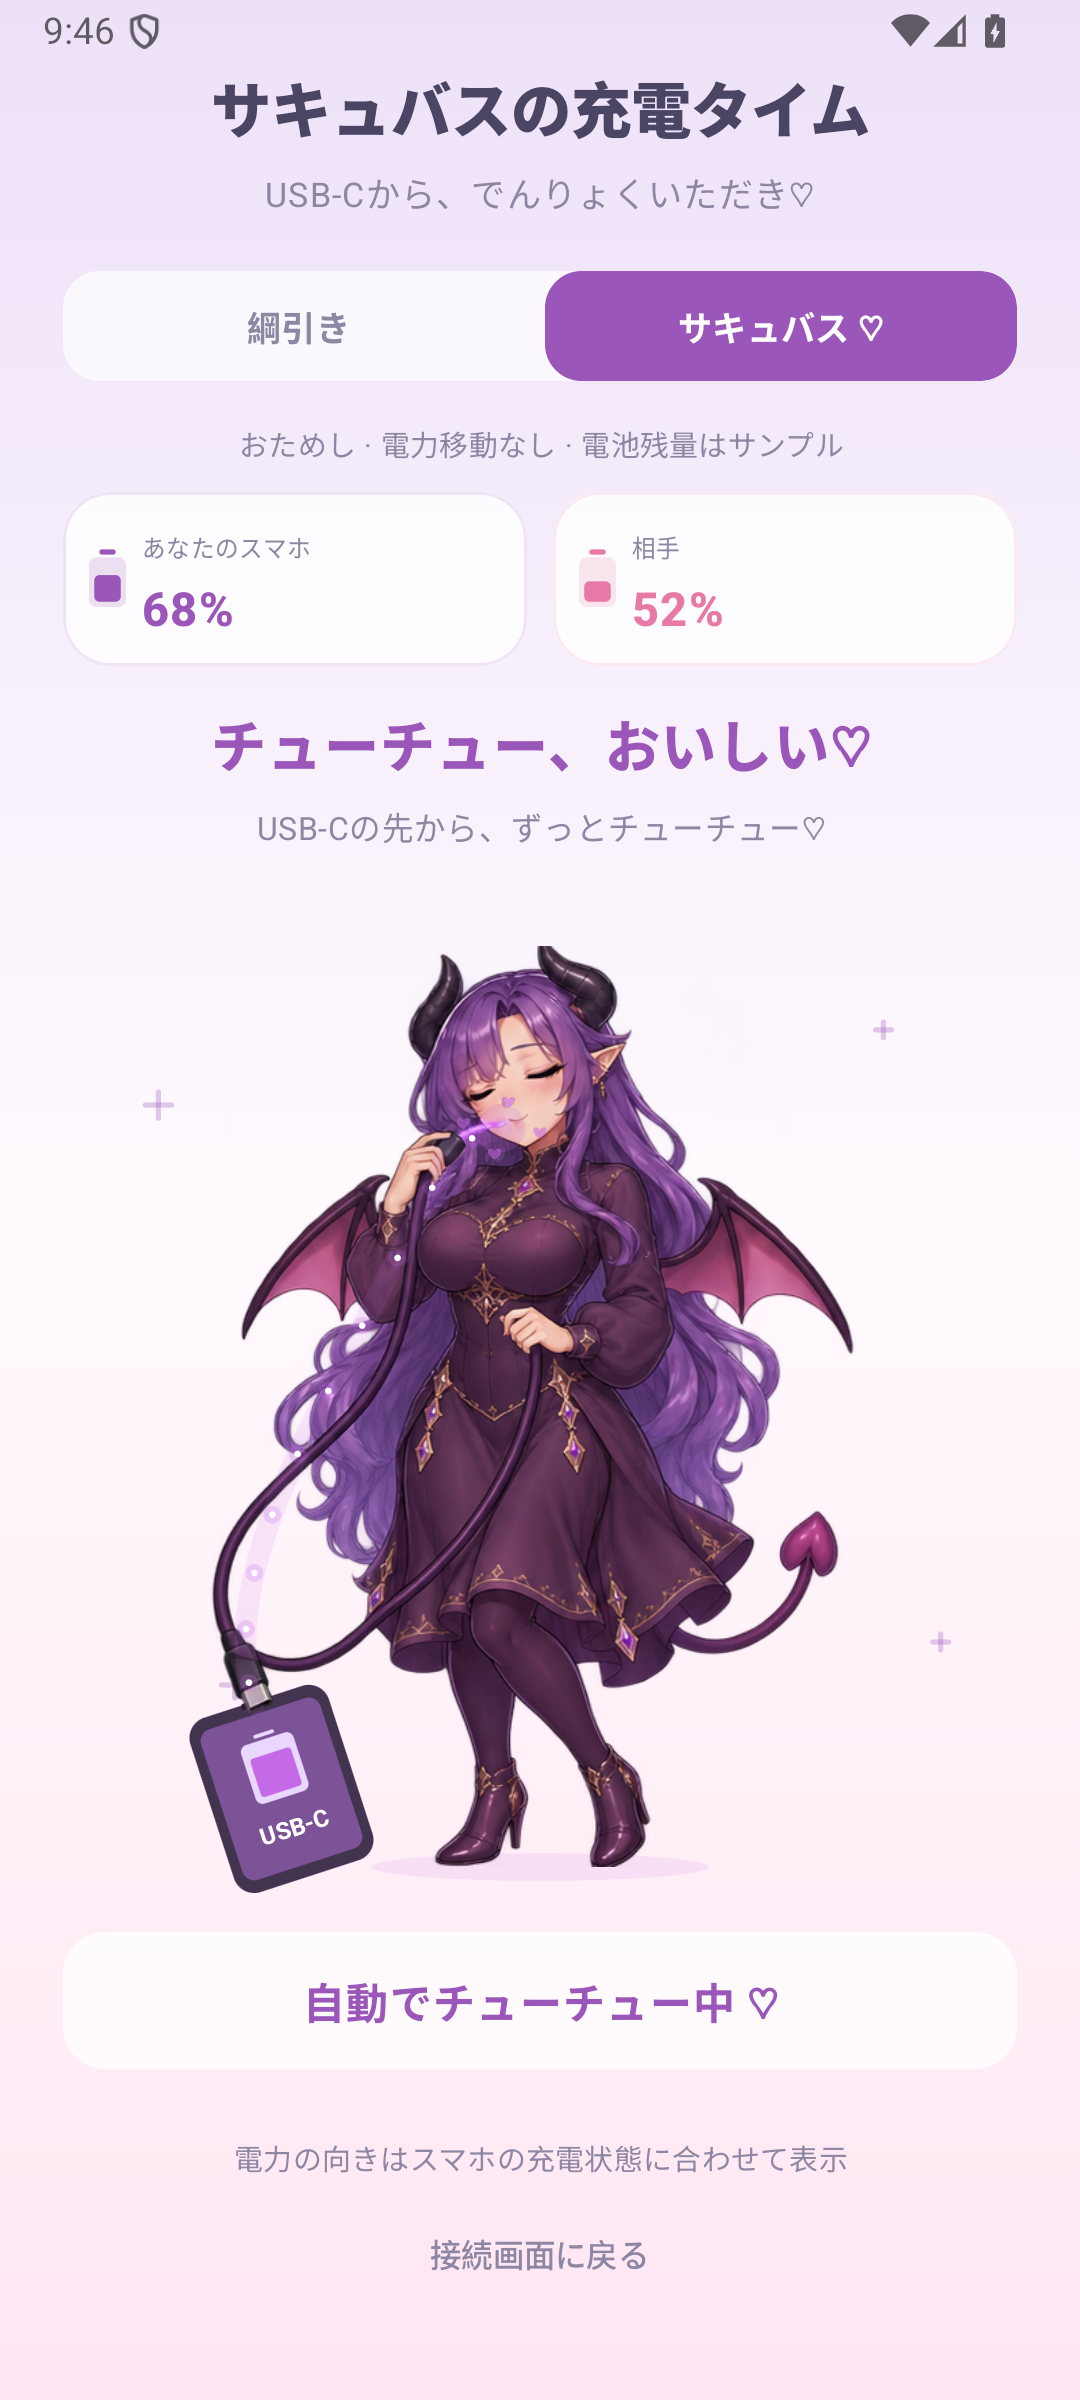
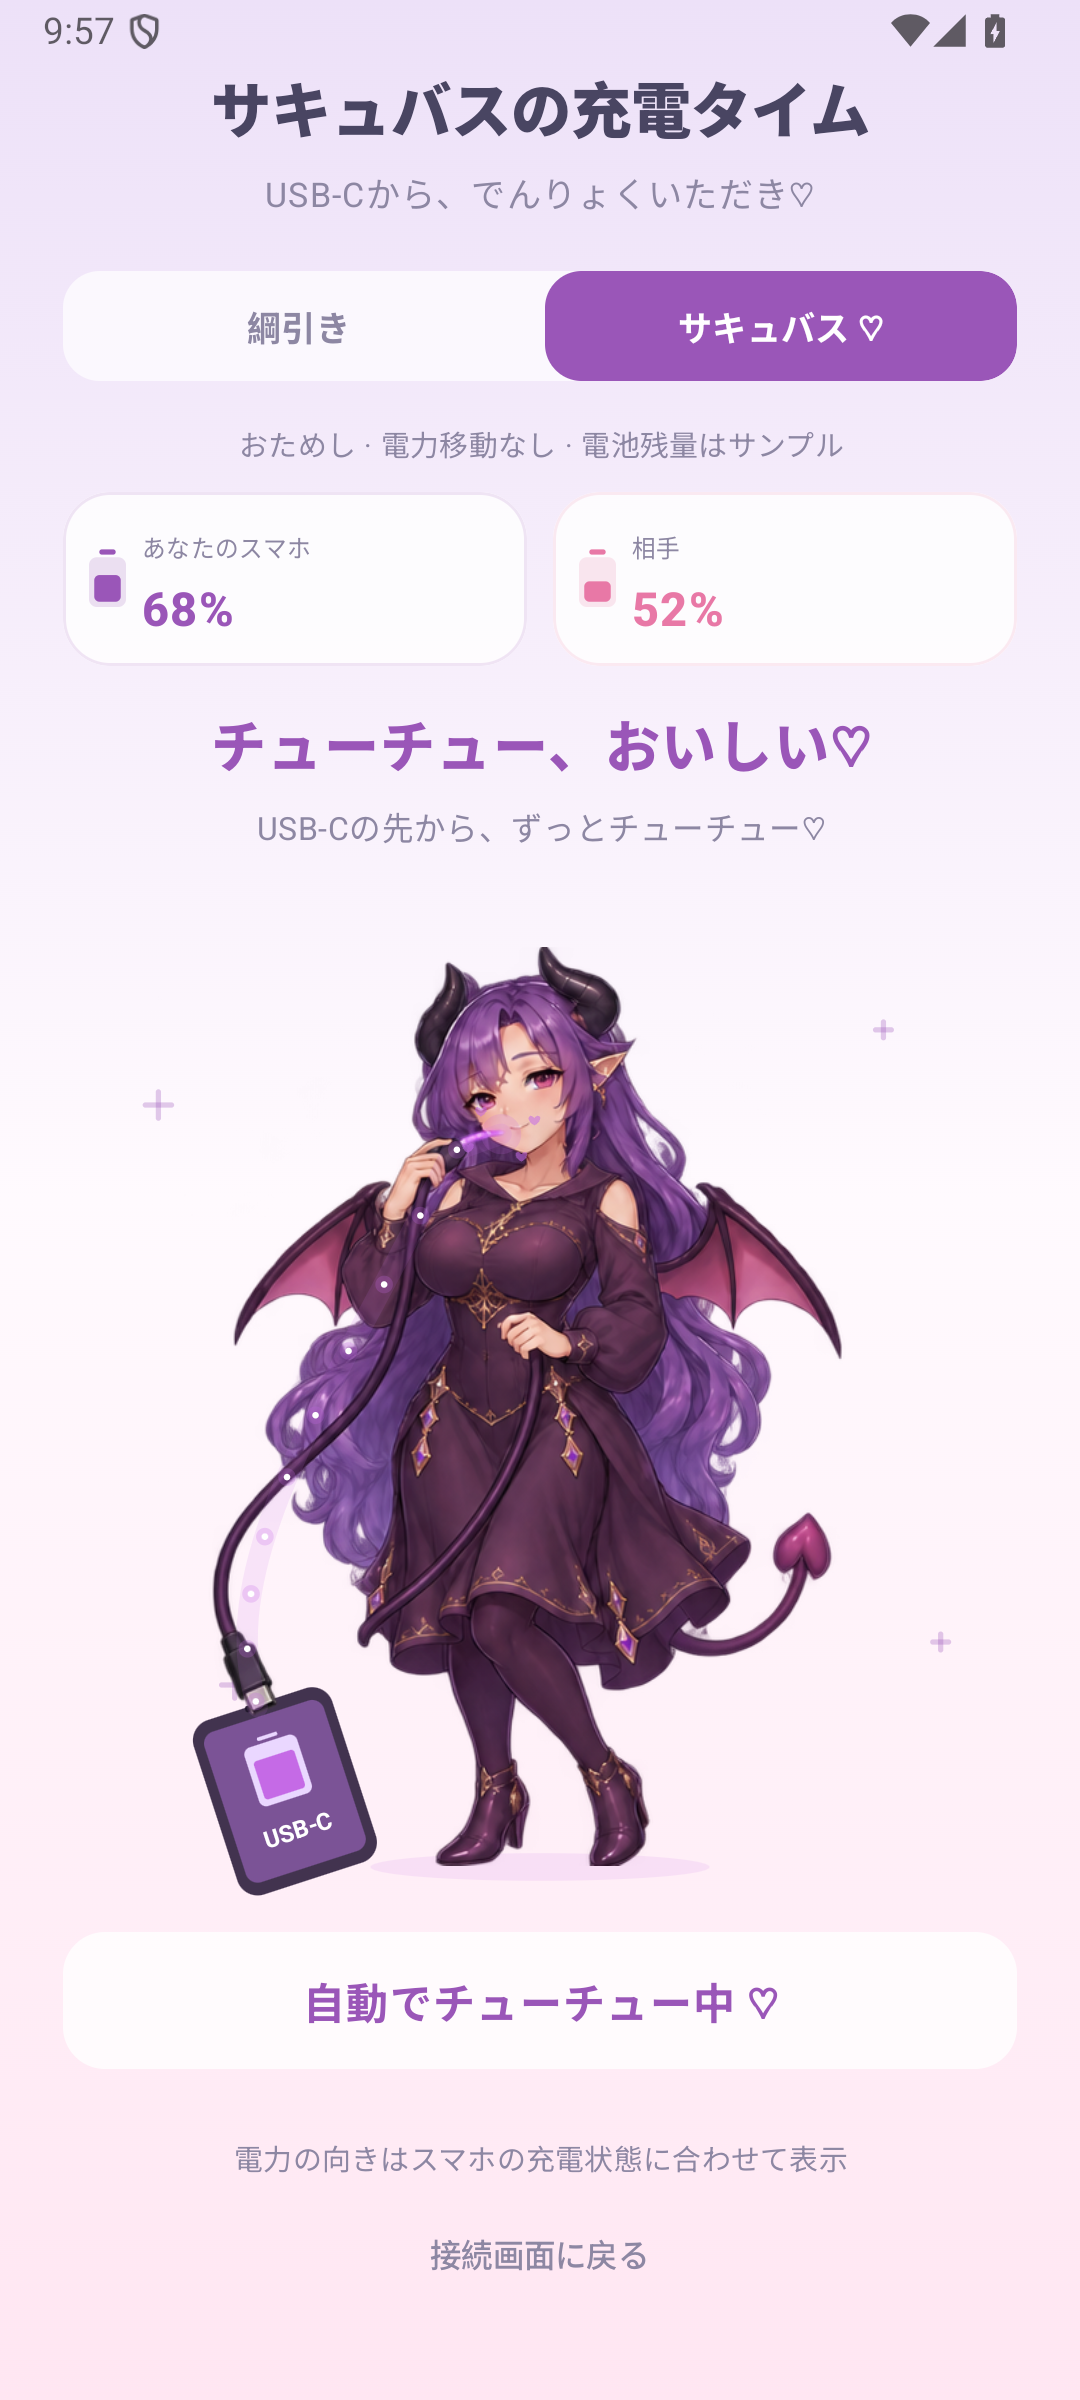
Relax succubus dress collar and shoulder styling

diff --git a/app/src/main/java/com/kenkawamoto/powerstruggle/SuccubusAnimation.kt b/app/src/main/java/com/kenkawamoto/powerstruggle/SuccubusAnimation.kt
@@ -55,7 +55,7 @@ private class SuccubusSprites(resources: Resources) {
     val frames: List<Frame>
 
     init {
-        val atlas = checkNotNull(BitmapFactory.decodeResource(resources, R.drawable.succubus_usb_sip_atlas))
+        val atlas = checkNotNull(BitmapFactory.decodeResource(resources, R.drawable.succubus_usb_sip_atlas_v2))
         val sx = atlas.width / 1143f
         val sy = atlas.height / 1376f
         val anchors = listOf(

diff --git a/docs/art/succubus-usb-sip-v2.prompt.md b/docs/art/succubus-usb-sip-v2.prompt.md
@@ -1,0 +1,18 @@
+# Relaxed costume revision — v0.6
+
+Mode: built-in `image_gen` (imagegen skill), edit, transparent background.
+Reference: archived `docs/art/succubus-usb-sip-v0.5.png`.
+Runtime asset: `app/src/main/res/drawable-nodpi/succubus_usb_sip_atlas_v2.png`.
+The selected 1143 × 1376 RGBA PNG is copied intact. This version opens the adult character's
+collar and adds small shoulder cutouts while keeping the bodice covered. USB-C connector,
+cable, footwear and pose registration retain the existing animation layout.
+
+## Final accepted edit prompt
+
+```text
+Edit the referenced four-frame transparent anime game sprite atlas as a modest costume adjustment.
+Keep the same adult fantasy woman, face, violet hair, horns, wings, tail, every expression, body pose, hands, USB cable, both USB connectors, skirt, leggings and boots exactly as drawn.
+Change only the high-neck collar and upper sleeves: replace the closed tall collar with a relaxed open collar that shows her neck and collarbones, and add small shoulder cutouts. The neckline stays HIGH, above the bust, with the chest completely covered by opaque purple fabric. The sleeves remain long, softly gathered and slightly loose. Preserve the existing purple fabric and gold decorative trim. This is a tasteful open-collar fantasy dress, with no deep neckline or underwear appearance.
+The result should feel a little more loosely worn and airy than the original tightly closed collar. Apply exactly the same garment edit to all four frames.
+Do not change the mouth action, connector positions, cable route, figure proportions, atlas dimensions, cell layout, shoe baselines, or transparent background. No extra objects, background, text or watermark.
+```

diff --git a/docs/ui-validation.md b/docs/ui-validation.md
@@ -1,5 +1,22 @@
 # Chibi UI validation — 2026-10-05
 
+## Relaxed costume — v0.6
+
+The adult character's purple dress now has an open collar showing the neck/collarbones and
+small shoulder cutouts. The four expressions, USB-C plugs, cable and pose registration are
+preserved. The new 1143 × 1376 transparent PNG is kept intact; its alpha ranges from 0 to 255.
+The previous USB artwork is archived at `docs/art/succubus-usb-sip-v0.5.png`.
+
+`assembleDebug lintDebug --max-workers=2 --no-daemon` succeeded with no errors and the same
+three SDK/orientation warnings. API 36 host-GPU captures verified the continuous sipping
+loop, the live-battery waiting layout, and both opposing halves. The sample-battery preview
+label remains visible; no fatal app exceptions were logged. The updated costume, feet,
+phone connection and cable were visually checked. The artwork update does not alter game
+input or USB power control.
+
+Deliverables: `output/PowerStruggle-usb-sip-v0.6-debug.apk` and
+`output/PowerStruggle-usb-sip-v0.6.mp4`. Two-device physical USB transfer remains untested.
+
 ## USB-C sipping artwork — v0.5
 
 The succubus now holds a recognizable metal USB-C connector at her mouth. A thick USB

diff --git a/README.md b/README.md
@@ -33,9 +33,10 @@ atlases are `tug_emotes_atlas.png` and `tug_pink_pull_atlas.png` in
 `app/src/main/res/drawable-nodpi/`. Their source rectangles, planted-foot pivots and hand grips
 are registered in `TugAnimation.kt`; the generated PNGs are preserved intact.
 See [`the animation prompts`](docs/art/tug-animation-prompts.md) for the artwork instructions.
-The alternate-mode artwork is `succubus_usb_sip_atlas.png`. A thick charging cable connects
+The alternate-mode artwork is `succubus_usb_sip_atlas_v2.png`. The purple dress has a relaxed
+open collar and small shoulder openings. A thick charging cable connects
 the animated USB-C tip near her lips to a phone with a visible USB port. Its generation
-instructions are in [`the USB-C succubus prompt`](docs/art/succubus-usb-sip.prompt.md).
+instructions are in [`the current costume edit prompt`](docs/art/succubus-usb-sip-v2.prompt.md).
 
 <p align="center">
   <img src="docs/chibi-waiting.png" width="230" alt="Chibi girls on the connection screen">

diff --git a/docs/art/succubus-usb-sip.prompt.md b/docs/art/succubus-usb-sip.prompt.md
@@ -2,7 +2,9 @@
 
 Mode: built-in `image_gen` (imagegen skill), edit, transparent background.
 Reference: archived `docs/art/succubus-sip-v0.4.png`.
-Runtime asset: `app/src/main/res/drawable-nodpi/succubus_usb_sip_atlas.png`.
+Original runtime asset (v0.5): `app/src/main/res/drawable-nodpi/succubus_usb_sip_atlas.png`.
+Archived source: `docs/art/succubus-usb-sip-v0.5.png`. The current costume revision is
+documented in `succubus-usb-sip-v2.prompt.md`.
 The accepted 1143 × 1376 RGBA PNG is copied intact, with alpha ranging from 0 to 255.
 The costume is a covered purple dress. Four expressions show the adult fantasy character
 sipping glowing electricity from a recognizable USB-C connector, with a thick USB cable.
